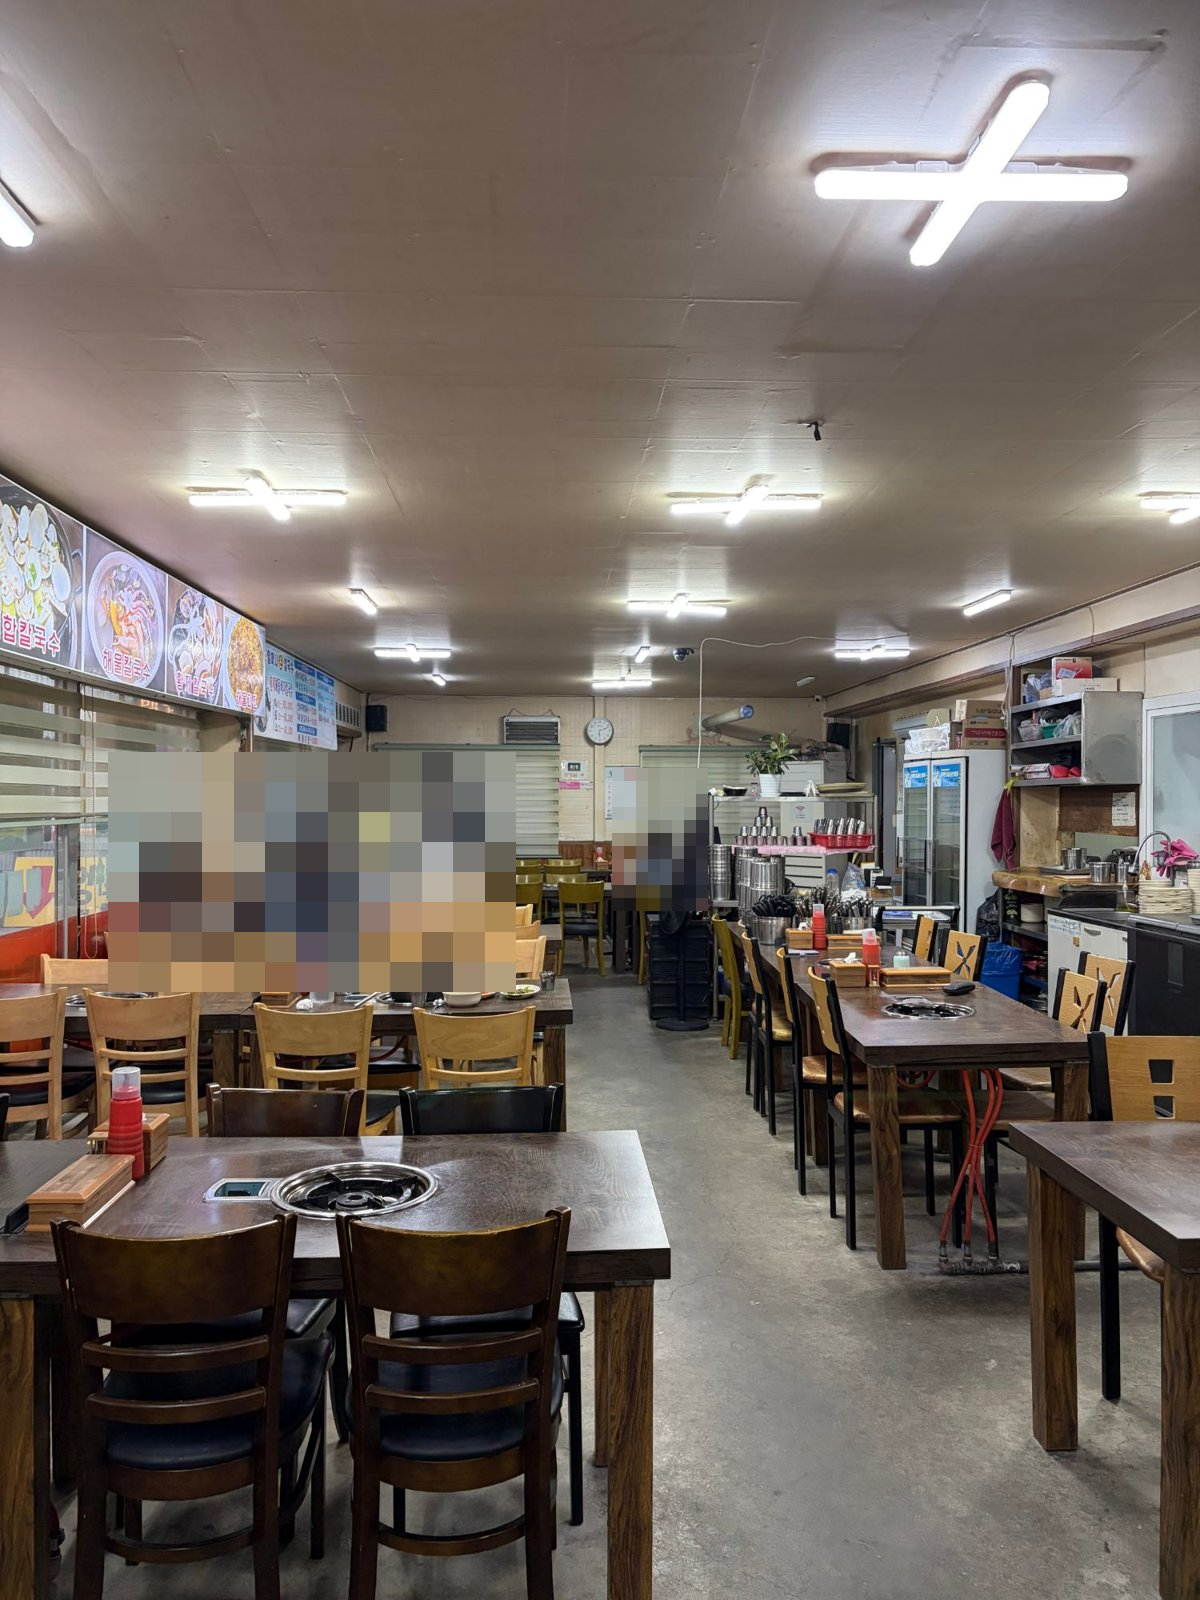
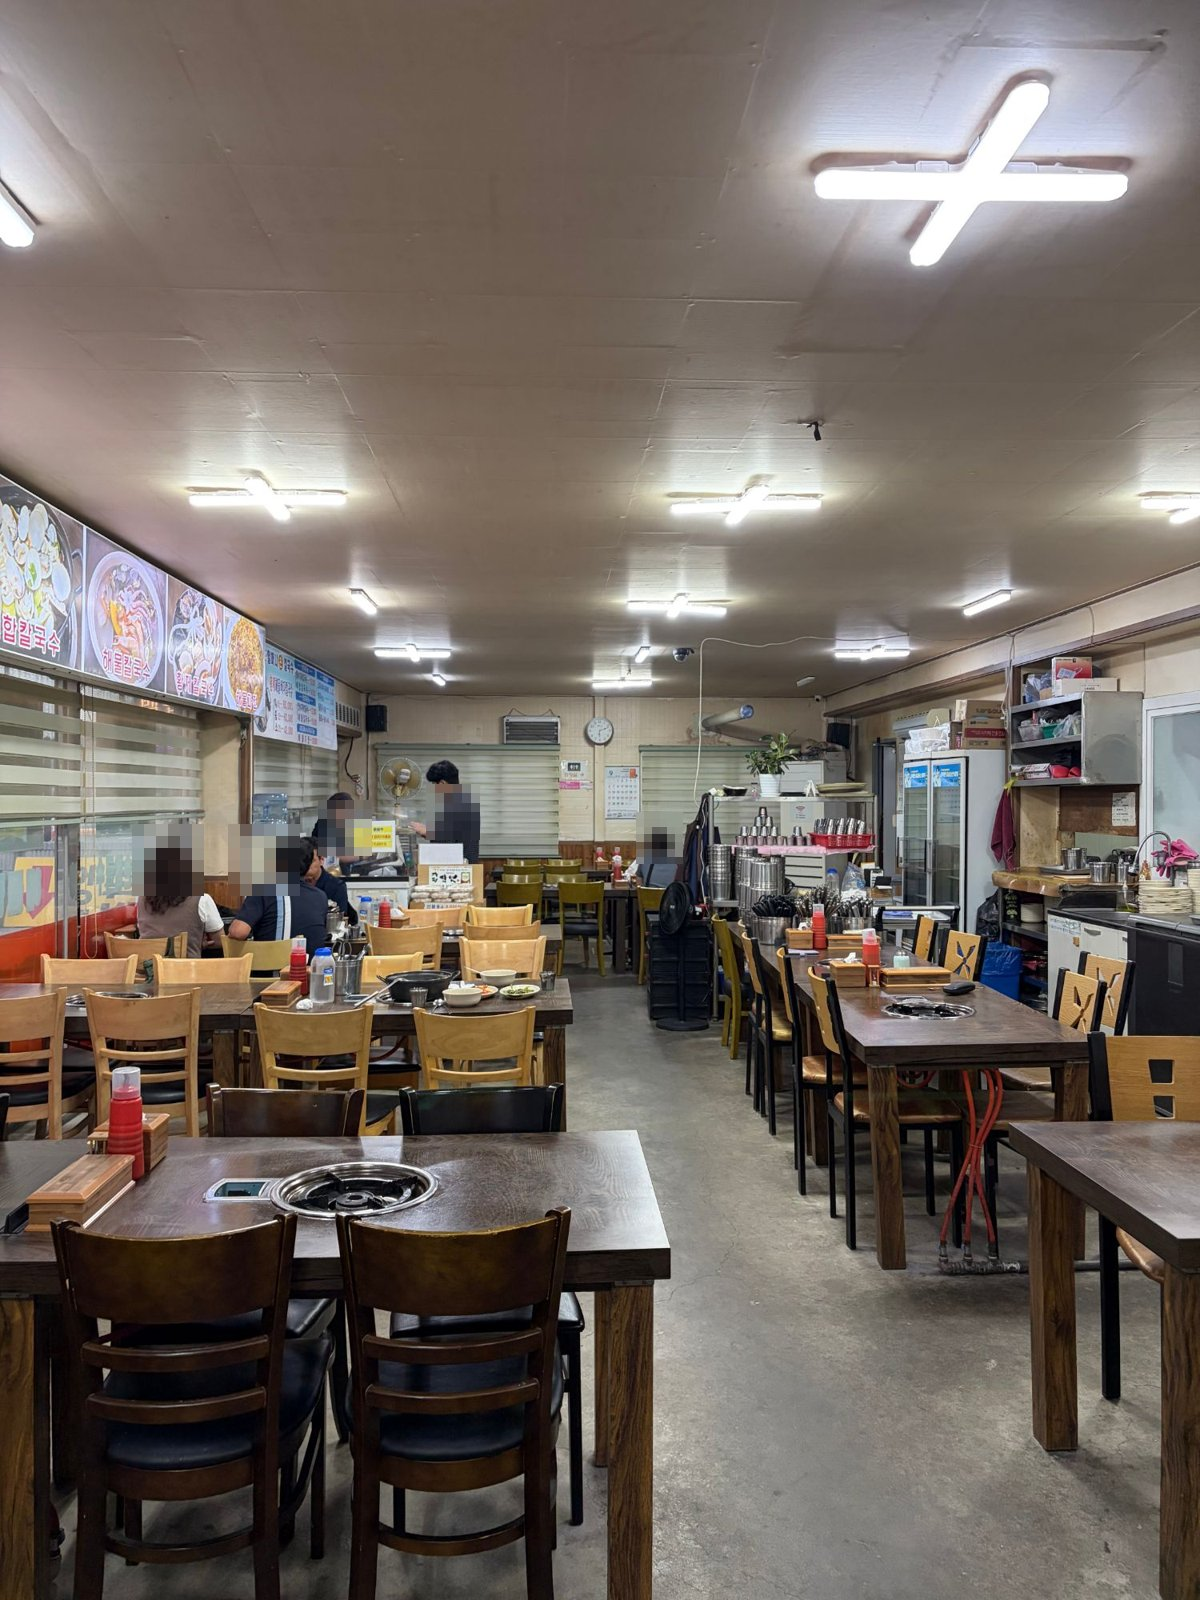
맛집: 모자이크 가장 약하게·실제 사람 얼굴과 번호판만, 지도 실패 때 [지도] 줄만 없어지면 멈추지 않음 (16:03 실패)
Claude-Session: https://claude.ai/code/session_01RbeRkU1625mbu1Fxu5Lcf1

Changed region(s): [[0.0925, 0.4688, 0.4317, 0.625], [0.4933, 0.4688, 0.5858, 0.5625]]

diff --git a/scripts/matjip-photos.py b/scripts/matjip-photos.py
@@ -4,7 +4,7 @@
     python3 scripts/matjip-photos.py <저장 폴더> <사진1> [<사진2>[@x0,y0,x1,y1[;x0,y0,x1,y1]]] ...
 
 - 넘긴 순서대로 01.jpg, 02.jpg … 로 저장한다 (= 원고 [사진 1], [사진 2] …). 1번은 대표사진(메뉴 또는 입구 간판).
-- `@` 뒤는 모자이크할 칸이다. 사진 너비·높이에 대한 비율(0~1)로 왼쪽 위·오른쪽 아래. 사람(얼굴·몸)·차 번호판은 모두 칠한다.
+- `@` 뒤는 모자이크할 칸이다. 사진 너비·높이에 대한 비율(0~1)로 왼쪽 위·오른쪽 아래. 실제 사람의 얼굴과 차 번호판만 작게 칠한다 (2026-11-04 사용자 — 가장 약하게, 그림·사진·TV 속 사람은 안 칠함).
   칸은 Claude 가 사진을 눈으로 보고 정한다 — 저장한 뒤 다시 열어 사람이 남지 않았는지 꼭 확인한다.
 - 긴 변 1600px 로 줄이고, 사진 정보(EXIF — 찍은 곳 GPS 포함)는 지운다. 저장소는 공개다.
 """
@@ -25,7 +25,7 @@ for i, arg in enumerate(sys.argv[2:], 1):
         x0, y0, x1, y1 = (float(v) for v in b.split(','))
         box = (int(x0 * w), int(y0 * h), int(x1 * w), int(y1 * h))
         part = im.crop(box)
-        cell = max(12, min(part.size) // 8)  # 큰 모자이크 칸 — 알아볼 수 없게
+        cell = max(5, min(part.size) // 6)  # 가장 약한 모자이크 — 얼굴만 살짝 (2026-11-04 사용자). 칸은 얼굴·번호판에만 작게
         small = part.resize((max(1, part.width // cell), max(1, part.height // cell)), Image.BILINEAR)
         im.paste(small.resize(part.size, Image.NEAREST), box)
     dst = out / f'{i:02d}.jpg'
